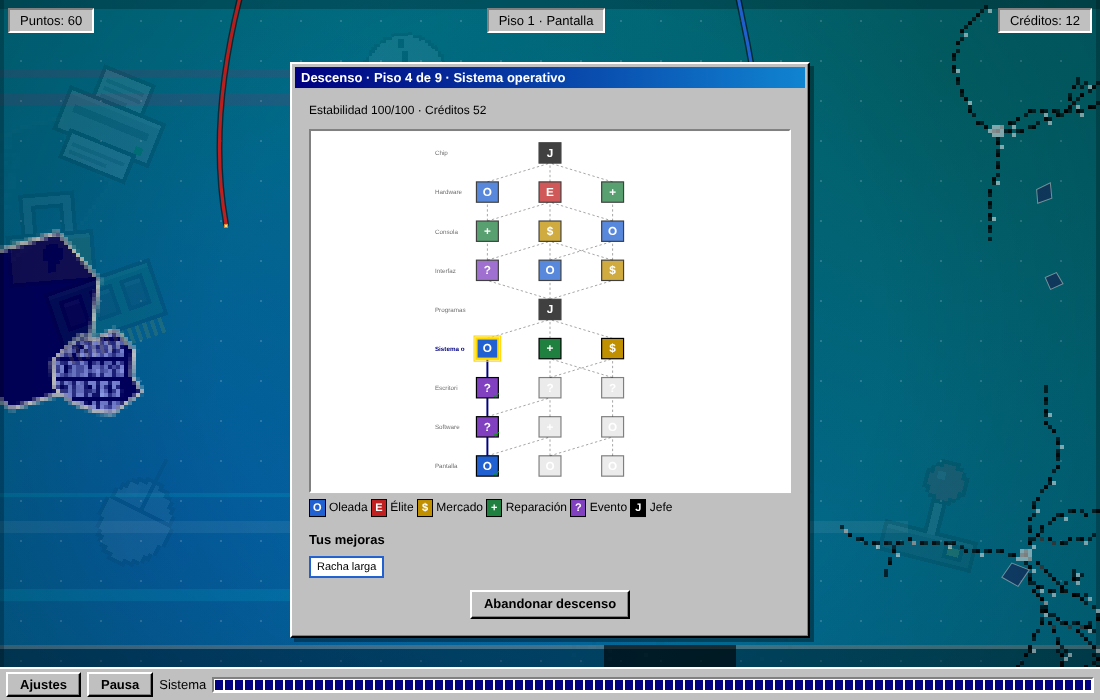
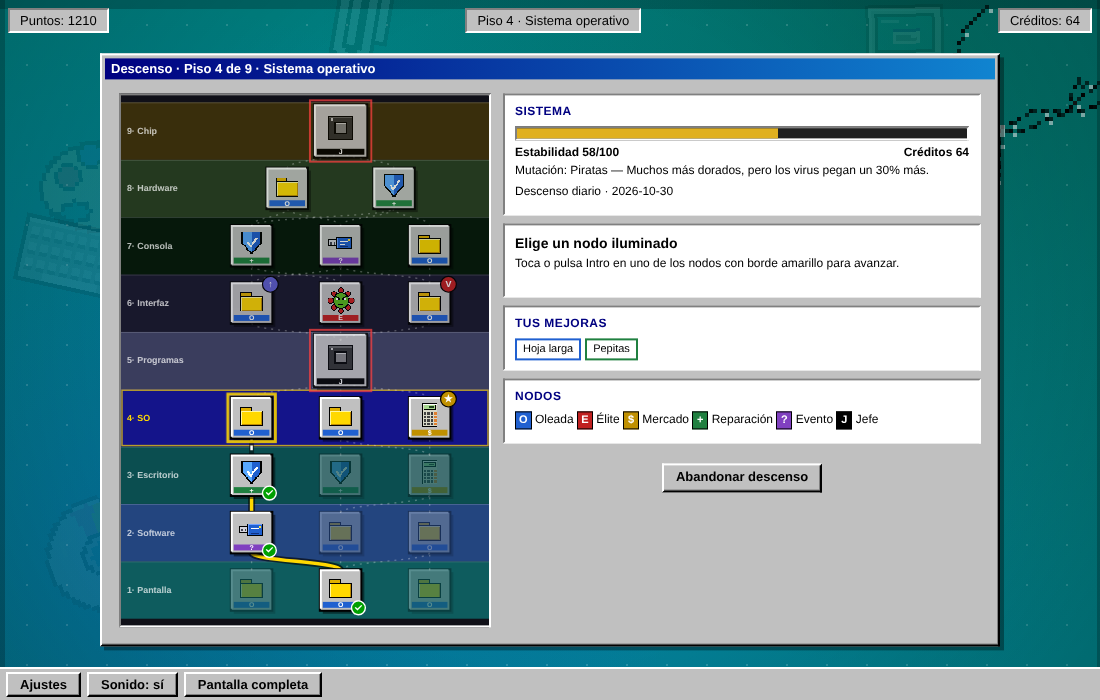
Descenso: tarjetas con icono, eventos como cuadros de mensaje, zona de reparación y resumen; README y CHANGELOG

diff --git a/index.html b/index.html
@@ -82,6 +82,31 @@ canvas#c{flex:1;width:100%;display:block;cursor:crosshair;min-height:0}
 .upg .ut{color:#fff;font-size:10px;padding:1px 6px;white-space:nowrap}
 .upg span{font-size:12px}.upg em{font-style:normal;font-size:11px;font-weight:bold;color:#000080}
 .upg.rare{background:#fff6c8}
+.upg.relic{background:#efe3fa}
+.rcard{display:grid!important;grid-template-columns:54px minmax(0,1fr);gap:2px 10px;align-items:center}
+.rcard .uic{grid-row:1/span 6;align-self:start;width:54px;height:54px;background:#101018;border:2px solid;border-color:var(--lo) var(--hi) var(--hi) var(--lo);padding:3px;image-rendering:pixelated;object-fit:contain}
+.rcard.rare .uic{box-shadow:0 0 0 2px #e0b020}
+.rcard.relic .uic{box-shadow:0 0 0 2px #8040c0}
+.rcard .syn{font-style:normal;font-size:11px;font-weight:bold;color:#7a4a00;background:#ffe9a0;border:1px solid #b08000;padding:0 5px;display:inline-block;width:max-content;max-width:100%}
+.rcard .cost{font-style:normal;font-size:12px;font-weight:bold}
+.rcard .cost.ok{color:#006000}.rcard .cost.no{color:#b00000}
+.sum{margin:10px 0;text-align:left}
+.sum .flrs{display:flex;gap:3px;margin-bottom:8px}
+.sum .fl{flex:1;height:26px;border:2px solid currentColor;display:flex;align-items:center;justify-content:center;font-size:11px;font-weight:bold;opacity:.9}
+.sum .fl.ok{background:#30a040;color:#fff;border-color:#fff}
+.sum .fl.fwin{background:#e0b020;color:#000;border-color:#fff}
+.sum .fl.dead{background:#d03030;color:#fff;border-color:#fff}
+.sum .fl.todo{opacity:.4}
+.sum .kv{display:grid;grid-template-columns:repeat(4,1fr);gap:6px;margin-bottom:8px}
+.sum .kv div{border:2px solid currentColor;padding:4px 6px;font-size:11px}
+.sum .kv b{display:block;font-size:16px}
+.sum .chips .chip{background:transparent;color:inherit;border-color:currentColor}
+.evbox{display:flex;gap:14px;align-items:flex-start;margin-bottom:8px}
+.evbox .evic{flex:none;width:64px;height:64px;background:#101018;border:2px solid;border-color:var(--lo) var(--hi) var(--hi) var(--lo);padding:4px;image-rendering:pixelated}
+.evbox p{margin:0 0 6px}
+.evopt{display:block;width:100%;margin-top:8px;text-align:left;padding:7px 10px!important}
+.evopt small{display:block;font-weight:normal;font-size:11px;margin-top:2px;color:#303030}
+
 .upg.off{opacity:.5;cursor:default}
 .upg:focus-visible{outline:1px dotted var(--ink);outline-offset:-5px}
 #grid{display:grid;grid-template-columns:repeat(auto-fill,minmax(120px,1fr));gap:8px}
@@ -207,6 +232,7 @@ canvas#c{flex:1;width:100%;display:block;cursor:crosshair;min-height:0}
     <div class="tag" id="endtag">Sistema</div>
     <div id="endmsg">Se ha producido un error grave. El sistema se ha detenido.</div>
     <div id="final">Puntos: 0</div>
+    <div id="endsum"></div>
     <div id="endbytes">Bytes ganados: 0</div>
     <div id="endach" hidden></div>
     <div id="newrec" hidden>Nuevo récord</div>
@@ -900,7 +926,7 @@ function over(why){
   $('endtag').textContent=why==='time'?'Sesión':'Sistema';
   $('endmsg').textContent=why==='time'?'Se ha agotado el tiempo de la sesión.':'Se ha producido un error grave. El sistema se ha detenido.';
   $('final').textContent='Puntos: '+score+'   Nivel: '+level+'   Récord: '+save.best[mode];
-  $('endbytes').textContent='Bytes ganados: '+earned;
+  $('endbytes').textContent='Bytes ganados: '+earned;$('endsum').innerHTML='';
   $('endach').hidden=!run.ach.length;
   $('endach').textContent=run.ach.length?'Logros nuevos: '+run.ach.join(', '):'';
   $('newrec').hidden=!rec;
@@ -2315,14 +2341,25 @@ function addUpg(id){
   if(id==='respaldo')stab=Math.min(M.maxStab,stab+20);
   if(id==='aliento')rg.revive=1;
 }
+var CATICON={esp:'raton',ico:'disquete',sup:'candado',rie:'adware',rel:'cpu'};
+function icImg(id,cls){var im=document.createElement('img');im.className=cls;im.alt='';im.src=iconURL(id);im.draggable=false;return im}
+function synHint(u){
+  for(var k=0;k<SYN.length;k++){var x=SYN[k];if(rg.syn[x.id]||x.need.indexOf(u.id)<0)continue;
+    var other=x.need[0]===u.id?x.need[1]:x.need[0];
+    if(has(other)>0)return '★ Completa la sinergia «'+x.name+'» con '+UPD[other].name;
+  }
+  return null;
+}
 function upgCard(u,onPick,price){
-  var b=el('button','upg');b.type='button';
+  var b=el('button','upg rcard');b.type='button';
+  b.appendChild(icImg(CATICON[u.cat]||'carpeta','uic'));
   var h=el('div','uh');h.appendChild(el('strong',null,u.name));
   var tag=el('span','ut',CATN[u.cat]+(u.r==='r'?' · Rara':''));tag.style.background=CATC[u.cat];h.appendChild(tag);
   b.appendChild(h);b.appendChild(el('span',null,u.d));
+  var sy=synHint(u);if(sy)b.appendChild(el('em','syn',sy));
   if(u.max>1)b.appendChild(el('em',null,'Copias: '+has(u.id)+'/'+u.max));
-  if(price!=null)b.appendChild(el('em',null,price+' créditos'));
-  if(u.r!=='c')b.className+=' rare';
+  if(price!=null){var ok=typeof price==='number'?rg.cred>=price:false;b.appendChild(el('em','cost'+(typeof price==='number'?(ok?' ok':' no'):''),typeof price==='number'?price+' créditos':price))}
+  if(u.r==='r')b.className+=' rare';else if(u.r==='x')b.className+=' relic';
   b.onclick=onPick;return b;
 }
 function rgReward(rare,done,title){
@@ -2364,18 +2401,21 @@ function rgShop(){
   }
   draw();
 }
+function rgChoice(icon,title,desc,fn){
+  var b=el('button','upg rcard');b.type='button';b.appendChild(icImg(icon,'uic'));
+  var h=el('div','uh');h.appendChild(el('strong',null,title));b.appendChild(h);b.appendChild(el('span',null,desc));b.onclick=fn;return b;
+}
 function rgRest(){
   rgShow('Zona de reparación',function(b){
     b.appendChild(el('p','note',stabTxt()));
     b.appendChild(el('p',null,'Un técnico te ofrece un rato de calma. Elige una cosa.'));
-    var row=el('div','row');
-    row.appendChild(rgBtn('Reparar 35%',function(){rgHeal(.35);rgNodeDone()}));
-    row.appendChild(rgBtn('Optimizar (una mejora)',function(){rgReward(false,function(){rgNodeDone()},'Optimizar')}));
-    b.appendChild(row);
+    var heal=Math.min(M.maxStab-stab,Math.round(M.maxStab*.35));
+    b.appendChild(rgChoice('escudo','Reparar','Recuperas un 35% de estabilidad (+'+Math.max(0,heal)+').',function(){rgHeal(.35);rgNodeDone()}));
+    b.appendChild(rgChoice('usb','Optimizar','Eliges 1 de 3 mejoras.',function(){rgReward(false,function(){rgNodeDone()},'Optimizar')}));
   });
 }
 function rgMsg(txt,cont){
-  rgShow('Resultado',function(b){b.appendChild(el('p',null,txt));b.appendChild(el('p','note',stabTxt()));var row=el('div','row');row.appendChild(rgBtn('Continuar',cont));b.appendChild(row)});
+  rgShow('Resultado',function(b){var bx=el('div','evbox');bx.appendChild(icImg(rg.evIcon||'escudo','evic'));var tb=el('div');tb.style.flex='1';tb.appendChild(el('p',null,txt));bx.appendChild(tb);b.appendChild(bx);b.appendChild(el('p','note',stabTxt()));var row=el('div','row');row.appendChild(rgBtn('Continuar',cont));b.appendChild(row)});
 }
 var EVENTS=[
  {n:'Ventana emergente',t:'Un aviso promete 30 créditos si pulsas «Aceptar». Huele a trampa.',o:[
@@ -2415,11 +2455,13 @@ var EVENTS=[
    ['Desfragmentar (20 créditos)',function(){if(rg.cred<20)return 'No tienes créditos.';rg.cred-=20;rgHeal(.4);return 'Disco ordenado: +40% de estabilidad.'}],
    ['Saltar',function(){return 'No hay tiempo.'}]]}
 ];
+var EVICON={'Ventana emergente':'adware','Puerto USB desconocido':'usb','Copia de seguridad':'disco','Actualización forzada':'espera','Mina de bytes':'ram','Servidor de pruebas':'internet','Técnico de guardia':'equipo','Copia pirata':'troyano','Subasta de reliquias':'reloj','Overclocking de fábrica':'cpu','Papelera de reciclaje':'papelera','Desfragmentación':'disco'};
 function rgEvent(){
   var left=EVENTS.filter(function(e){return rg.evSeen.indexOf(e.n)<0});if(!left.length){rg.evSeen=[];left=EVENTS}
-  rrSet('ev|'+rg.floor);var ev=left[Math.floor(rr()*left.length)];rg.evSeen.push(ev.n);
+  rrSet('ev|'+rg.floor);var ev=left[Math.floor(rr()*left.length)];rg.evSeen.push(ev.n);rg.evIcon=EVICON[ev.n]||'error';
   rgShow('Evento: '+ev.n,function(b){
-    b.appendChild(el('p',null,ev.t));b.appendChild(el('p','note',stabTxt()));
+    var bx=el('div','evbox');bx.appendChild(icImg(rg.evIcon,'evic'));
+    var tb=el('div');tb.style.flex='1';tb.appendChild(el('p',null,ev.t));tb.appendChild(el('p','note',stabTxt()));bx.appendChild(tb);b.appendChild(bx);
     ev.o.forEach(function(op){
       var bt=rgBtn(op[0],function(){
         var r=op[1]();
@@ -2428,7 +2470,7 @@ function rgEvent(){
         else if(r==='RELIC')rgReward('x',function(){rgNodeDone()},'Reliquia de la subasta');
         else if(r==='UP')rgReward(false,function(){rgNodeDone()},'Actualización');
         else rgMsg(r,function(){rgNodeDone()});
-      });bt.style.display='block';bt.style.width='100%';bt.style.marginTop='8px';b.appendChild(bt);
+      });bt.className+=' evopt';b.appendChild(bt);
     });
   });
 }
@@ -2460,6 +2502,22 @@ function rgBossEscaped(){
 
 /* --- fin del descenso --- */
 function rgScoreEarned(win){return Math.round(score/2)+rg.floor*25+(win?150:0)+Math.floor(rg.cred/4)}
+function rgSumEl(reached,win){
+  var d=el('div','sum'),fl=el('div','flrs'),i;
+  for(i=0;i<FLOORS;i++){
+    var c=win?'fwin':i<reached?'ok':i===reached?'dead':'todo';
+    var x=el('div','fl '+c,win?'★':i<reached?'✓':i===reached?'✗':String(i+1));x.title=BGN[i];fl.appendChild(x);
+  }
+  d.appendChild(fl);
+  var kv=el('div','kv');
+  [['Puntos',score],['Cortes',run.cuts||0],['Jefes',run.bosses||0],['Créditos',rg.cred]].forEach(function(p){var c=el('div');c.appendChild(el('span',null,p[0]));c.appendChild(el('b',null,String(p[1])));kv.appendChild(c)});
+  d.appendChild(kv);
+  if(rg.mut)d.appendChild(el('p','note','Mutación: '+MUTD[rg.mut].n));
+  var ul=Object.keys(rg.upg);
+  if(ul.length){var box=el('div','chips');ul.forEach(function(id){box.appendChild(el('span','chip',UPD[id].name+(rg.upg[id]>1?' ×'+rg.upg[id]:'')))});d.appendChild(box)}
+  SYN.forEach(function(x){if(rg.syn[x.id])d.appendChild(el('p','note','★ '+x.name))});
+  return d;
+}
 function rgBank(why,win){
   if(!rg.active)return {earned:0,rec:false};
   var floors=rg.floor+(win?0:0);
@@ -2487,6 +2545,7 @@ function rgOver(why){
   $('endmsg').textContent='El sistema cayó en el piso '+(f+1)+' ('+BGN[f]+'). Mejoras: '+Object.keys(rg.upg).length+'.';
   $('final').textContent='Puntos: '+score+'   Pisos superados: '+f+(rg.daily?'   Mejor de hoy: '+save.daily.score:'   Mejor: '+save.best.run);
   $('endbytes').textContent='Bytes ganados: '+r.earned;
+  $('endsum').innerHTML='';$('endsum').appendChild(rgSumEl(f,false));
   $('endach').hidden=!run.ach.length;$('endach').textContent=run.ach.length?'Logros nuevos: '+run.ach.join(', '):'';
   $('newrec').hidden=!r.rec;
   closeModal();rgHide();$('pausewin').hidden=true;$('bsod').hidden=false;ui();hud();
@@ -2496,7 +2555,7 @@ function rgWin(){
   var r=rgBank('win',true);
   rgShow('¡Descenso completado!',function(b){
     b.appendChild(el('p',null,'Has llegado hasta el chip y has derrotado al Procesador Maestro.'));
-    b.appendChild(el('p','note','Puntos: '+score+'  ·  Mejoras: '+Object.keys(rg.upg).length+'  ·  Créditos: '+rg.cred));
+    b.appendChild(rgSumEl(FLOORS,true));
     b.appendChild(el('p',null,'Bytes ganados: '+r.earned));
     if(r.rec)b.appendChild(el('p',null,rg.daily?'Nuevo mejor del día.':'Nuevo récord de descenso.'));
     if(run.ach.length)b.appendChild(el('p','note','Logros nuevos: '+run.ach.join(', ')));
@@ -2724,7 +2783,7 @@ toMenu();
 requestAnimationFrame(frame);
 /* ---------- Gancho de pruebas (solo con ?test=1): permite abrir las pantallas del Descenso sin jugar ---------- */
 if(/[?&]test=1/.test(location.search))window.NJ={
-  rgNew:rgNew,rgMap:rgMap,rgShop:rgShop,rgRest:rgRest,rgEvent:rgEvent,rgReward:rgReward,rgNodeDone:rgNodeDone,rgEnter:rgEnter,rgWin:rgWin,rgOver:rgOver,
+  rgNew:rgNew,rgWaveClear:rgWaveClear,rgMap:rgMap,rgShop:rgShop,rgRest:rgRest,rgEvent:rgEvent,rgReward:rgReward,rgNodeDone:rgNodeDone,rgEnter:rgEnter,rgWin:rgWin,rgOver:rgOver,
   state:function(){return {rg:rg,stab:stab,score:score,floor:rg.floor}},
   set:function(o){if('floor' in o)rg.floor=o.floor;if('stab' in o)stab=o.stab;if('cred' in o)rg.cred=o.cred;if('score' in o)score=o.score;hud()},
   addUpg:function(id){addUpg(id)}

diff --git a/README.md b/README.md
@@ -81,15 +81,25 @@ Una partida es **un viaje de la pantalla al chip**. Hay 9 pisos, uno por cada ca
 
 <div align="center">
 
-| El mapa | Eliges una mejora | Jefe final |
-|:---:|:---:|:---:|
-| <img src="docs/mapa.png" width="300"> | <img src="docs/recompensa.png" width="300"> | <img src="docs/jefe-final.png" width="300"> |
+| El mapa | Eliges una mejora |
+|:---:|:---:|
+| <img src="docs/mapa.png" width="420"> | <img src="docs/recompensa.png" width="420"> |
+
+| Un evento | Resumen del descenso |
+|:---:|:---:|
+| <img src="docs/evento.png" width="420"> | <img src="docs/resumen.png" width="420"> |
+
+<img src="docs/movil_mapa.png" height="440"> &nbsp; <img src="docs/jefe-final.png" height="440">
 
 <img src="docs/gifs/movil-descenso.gif" height="420"> &nbsp; <img src="docs/gifs/movil-jefe-final.gif" height="420">
 
 <img src="docs/gifs/pc-descenso.gif" width="600">
 
 </div>
+
+### Descenso diario
+
+El botón **Descenso diario** abre el mismo descenso para todo el mundo ese día (la fecha local es la semilla): el mapa, las tres mutaciones que se ofrecen, las mejoras de cada oferta, el mercado, los eventos y los jefes salen iguales. Las oleadas de iconos siguen siendo aleatorias. Se guarda el mejor resultado del día, el piso más profundo y una **racha** de días seguidos jugados. Puedes repetirlo las veces que quieras.
 
 ### Cómo funciona
 
@@ -305,8 +315,8 @@ ninja-de-escritorio/
 
 - [x] Jefe final propio para la capa del chip
 - [x] Modo roguelike con mapa y mejoras
-- [ ] Descenso diario con semilla fija
-- [ ] Reliquias de élite y más eventos
+- [x] Descenso diario con semilla fija
+- [ ] Más reliquias y más eventos
 - [ ] Ranking online
 - [ ] Tutorial interactivo para móvil
 - [ ] Más escritorios y estelas

diff --git a/CHANGELOG.md b/CHANGELOG.md
@@ -1,5 +1,14 @@
 # Registro de cambios
 
+## 2.2 · Descenso diario y pulido
+- **Descenso diario:** mismo mapa, mutaciones, ofertas, mercado, eventos y jefes para todos cada día. Mejor resultado del día y racha de días.
+- **Mapa del Descenso** a pantalla ancha: cada piso es una franja con el color de su capa, nodos con iconos del propio juego, camino recorrido en dorado, vista previa de cada nodo y panel de estabilidad, créditos y mejoras.
+- **Mejoras y mercado** en tarjetas con icono, rareza y aviso cuando una mejora completa una sinergia.
+- **Eventos** como cuadros de mensaje con icono, **zona de reparación** con dos opciones claras y **resumen** al terminar un descenso (pisos, cortes, jefes, mejoras).
+- **Legibilidad:** aura propia por tipo de icono. Lo que se corta no lleva aura; lo que hay que evitar, aro rojo; ayudas, aro cian; dorados, aro amarillo.
+- Botones y teclas de **sonido (M)** y **pantalla completa (F)**.
+- Script `tools/build-dist.mjs` y carpeta `itch/` para publicar en itch.io.
+
 ## 2.1 · Cada partida distinta
 - Cada jefe tiene sonidos propios (entrada, ataque, golpe, derrota y especiales) y su propia música.
 - Cada jefe tiene mecánica propia: abanicos, regalos trampa, candados, pantallazo que tapa, embestidas, ventanas emergentes y núcleo que se abre y se cierra.
